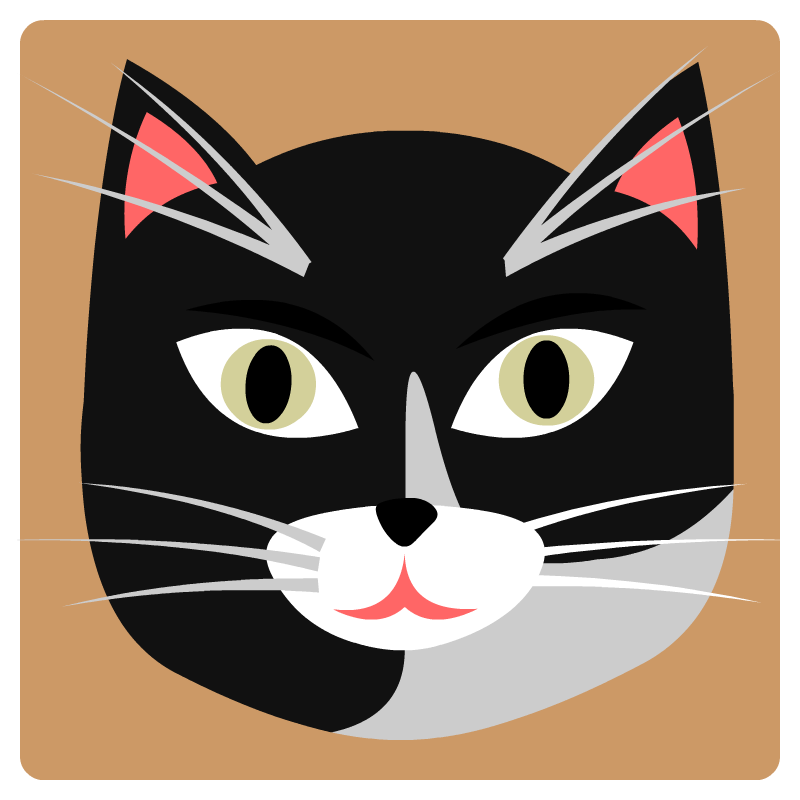
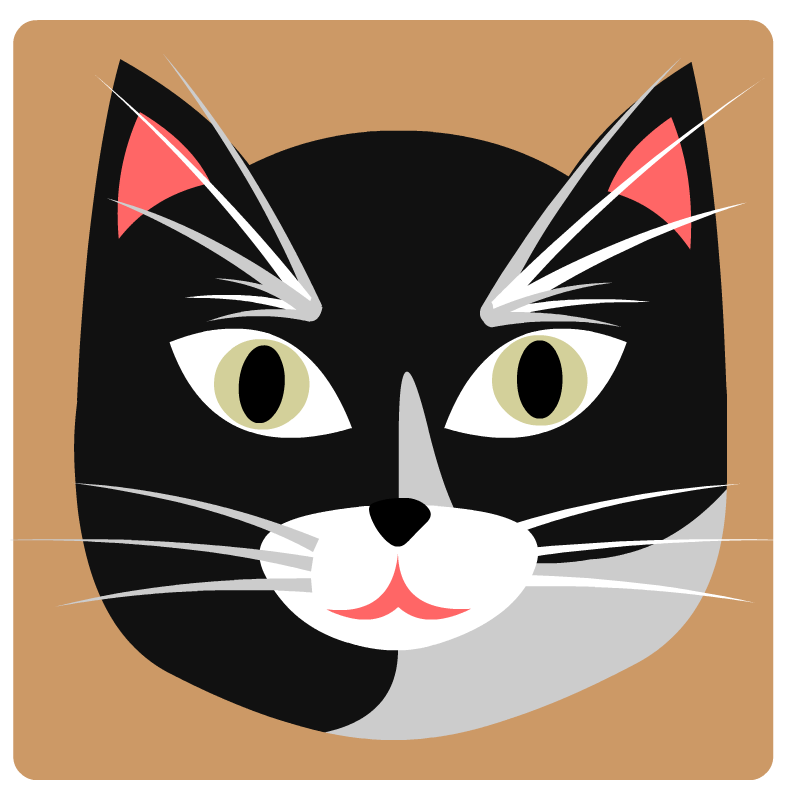
Added a portrait of Ezio to the website

diff --git a/templates/css/style.css b/templates/css/style.css
@@ -16,12 +16,20 @@ html, body {
   display: inline-block;
   min-width: 200px;
   min-height: 200px;
-  width: 60%;
+  width: 48%;
   padding-bottom: 20%;
   max-width: 400px;
-  background: url(../images/icarus-kitty.png) no-repeat;
   background-size: contain;
   background-position: center center;
+  background-repeat: no-repeat;
+}
+
+.ezio {
+  background-image: url(../images/ezio-kitty.png);
+}
+
+.icarus {
+  background-image: url(../images/icarus-kitty.png);
 }
 
 .feed {

diff --git a/templates/index.html b/templates/index.html
@@ -25,7 +25,8 @@
   <div class="main">
     <h1>Ezio and Icarus' Kitty Diary</h1>
     <p>A website diary for our two wonderful cats, Ezio and Icarus.</p>
-    <div class="kitty image"></div>
+    <div class="kitty image ezio" title="Ezio"></div>
+    <div class="kitty image icarus" title="Icarus"></div>
     <div class="feed">
     {{#each this}}
       <div class="entry">
